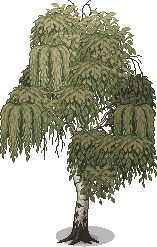
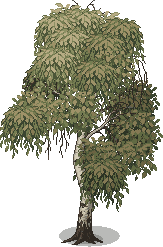
feat(world): list young trees four times, drop the birch curtain tuft
Each young tree (oak_4, birch_4, fir_4) is listed four times in its
data/objects file, so about one tree in six is young (4/22 oaks and
birches, 4/23 pines) instead of one in twenty.

The weeping curtain tuft (tuft_10) stood out from the other birch tufts
by its texture: it is removed from the assembler, the pieces and
ASSETS.toml, and the 18 birches are assembled again (PNGs, anchors,
shadow radii).

diff --git a/docs/art-guide.md b/docs/art-guide.md
@@ -6,7 +6,7 @@
 - **Tiles:** 96×48 px diamonds (PixelLab's isometric size). `assets/tiles.png` is made from PixelLab tilesets, assembled and cut by script outside the repo (not by `art/gen_art.gd`): to change it, replace the PNG, keep its layout, and set each ground's `full_variants` in `data/tiles/<id>.json`. One row per ground (the `atlas` field), 32 columns. Columns 1-14 are the ground cut out in alpha for each corner mask of the dual grid (`client/dual_grid.gd`: `NW << 3 | NE << 2 | SW << 1 | SE`, where NW is the top corner on screen, NE the right, SW the left and SE the bottom): only that ground is opaque, so it lays over any lower ground. Column 0 is empty, column 15 is the full tile. The lowest ground (deep water) is always drawn full and needs no masks. Full tiles cover the whole diamond (PixelLab draws one extra row on the edge; overlapping neighbours is fine). Tile size and atlas layout are set in one place, `client/iso_layer.gd`.
 - **Full tile variants:** after the 16 mask columns, a row holds the other versions of its full tile (`full_variants` in `data/tiles/<id>.json`, up to `IsoLayer.MAX_FULL_VARIANTS` = 17; column `IsoLayer.atlas_column(15, v)`). Each drawn full tile picks one from a hash of its position. Variants must tile with each other and with the masks: same colours and brightness, no rim. `mask_variants` is reserved for versions of the transition tiles and must stay 1 for now.
 - **Objects:** PNGs from the PixelLab kit, with their ground shadow drawn in. The shadow sits mostly behind the base, peeks out to the bottom right and is darkest where the object meets the ground; a shadow hanging below the base makes the object float. `art/object_shadows.gd` draws it (`godot --headless --path . -s res://art/object_shadows.gd`; give a new sprite its radii there), and `tests/test_object_shadows.gd` checks it. `data/objects/<id>.json` lists one or more `sprites`, each a `file` and an `anchor_px`: the pixel that stands on the cell centre (the foot of the trunk, the middle of a rock's base). Each cell picks one sprite from a hash. Wall sprites run along the grid's y axis (up-right on screen); the game mirrors them where a wall continues along x.
-- **Trees:** the oak, birch and pine sprites (`<species>_NN.png`) are assembled offline by `art/tree_assembler.gd` (`godot --headless --path . -s res://art/tree_assembler.gd`) from PixelLab pieces in `art/trees/pieces/`: bare winter skeletons dressed in foliage tufts (fir: needle branches along a smooth cone), all chosen and placed by an integer hash of the sprite's seed. It writes the PNGs and the sprite lists of `data/objects/`, and prints the shadow radii to copy into `art/object_shadows.gd`. To change the trees, change the script or its pieces and run it; `tests/test_tree_art.gd` checks the PNGs match it. The young trees (`oak_4`, `birch_4`, `fir_4`) are kit sprites kept as they were.
+- **Trees:** the oak, birch and pine sprites (`<species>_NN.png`) are assembled offline by `art/tree_assembler.gd` (`godot --headless --path . -s res://art/tree_assembler.gd`) from PixelLab pieces in `art/trees/pieces/`: bare winter skeletons dressed in foliage tufts (fir: needle branches along a smooth cone), all chosen and placed by an integer hash of the sprite's seed. It writes the PNGs and the sprite lists of `data/objects/`, and prints the shadow radii to copy into `art/object_shadows.gd`. To change the trees, change the script or its pieces and run it; `tests/test_tree_art.gd` checks the PNGs match it. The young trees (`oak_4`, `birch_4`, `fir_4`) are kit sprites kept as they were, each listed four times in its `data/objects/` file so that about one tree in six is young.
 - **Ground tint:** the game multiplies ground layers by a slow world-space noise (±6 % brightness, a little warmer when lighter; `ground_tint` in `data/biomes.json`, `client/ground_tint.gdshader`). Draw grounds at their normal brightness; do not bake large-scale shading into tiles.
 - **Decals:** small flat details over the ground (tufts, pebbles, flowers, leaves, twigs, mud, litter), PNGs from the PixelLab kit. `data/decals/<id>.json` lists its `sprites`; each placed decal picks one from a hash and is drawn centred on its position. They lie flat: players and objects never hide behind them. Keep them small (a fraction of a tile) and close to the ground's colours, so they break the pattern without drawing the eye.
 - **Characters:** players are 3D models drawn as pixel art (`client/character_3d.gd`): one texel per screen pixel, every pixel a colour of `data/palette.json`, light in three flat bands, a 1 px dark outline and a ground shadow like the objects'. The body and its animations are made by `art/character/body.py` (`art/character/BODY.md`); the top of the head is 100 px above the feet.
